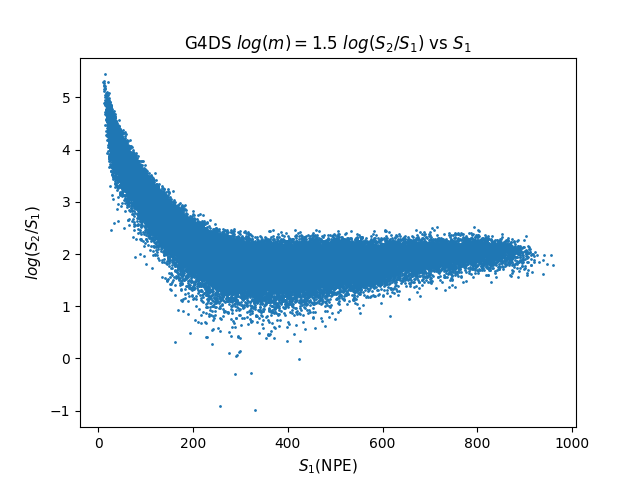
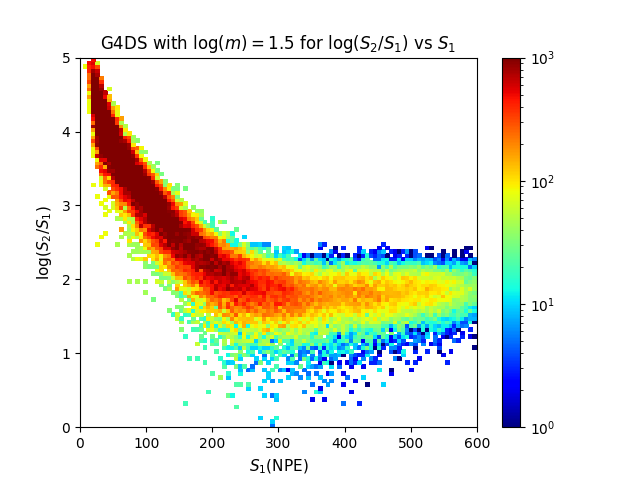
Add plots for analysis

diff --git a/Standalone/PostTrainingGan4DS.py b/Standalone/PostTrainingGan4DS.py
@@ -1,25 +1,19 @@
-from __future__ import division
-import tensorflow as tf
+#from __future__ import division
+#import tensorflow as tf
 import pickle
 import yaml
 import numpy as np
 import matplotlib.pyplot as plt
 import csv
-import numpy as np
 import matplotlib as mpl
+from collections import defaultdict
 
 def getData(energies, variables_of_interest):
-    allTrees = {}
+    allTrees = []
     for energy in energies:
-        allTrees[energy] = pickle.load(
-            open("in/pickles/outRun_"+energy+".p", "rb"))
-    result = {}
-    for key, value in allTrees.items():
-        filt_value = {k2: v2 for k2,
-                      v2 in value.items() if k2 in variables_of_interest}
-        if(filt_value):
-            result[key] = filt_value
-    return result
+        allTrees.append( pickle.load(
+            open("in/pickles/outRun_"+energy+".p", "rb")))
+    return allTrees
 
 def get_distributed_energies(path):
     with open(path, newline='') as csvfile:
@@ -108,8 +102,7 @@ def normaliseData(training_ds, energies, variables_of_interest):
 currentRun = "run_1_"
 currentSession = "session_1_"
 
-stream = open("./out/"+currentRun+"/sessions/" +
-              currentSession+"/layouts/"+"config.yaml", "r+")
+stream = open("/workspaces/mphys-project/G4_RUNS/serial_architecture/working_3D_cgan_s1_s2_f200/sessions/session_1_/layouts/config.yaml", "r+")
 data = yaml.load(stream, Loader=yaml.FullLoader)
 
 variables_of_interest = data['variables_of_interest']
@@ -177,16 +170,18 @@ for var in variables_of_interest:
 all_stuff={'data':conditions,'normalisation':allNorms}
 pickle.dump( all_stuff, open("./final_result/testing_data.p", "wb" ) )
 '''
-all_stuff = pickle.load(
-            open("./final_result/testing_data.p", "rb"))
-masses=["3"]
+masses=["1-5","2","2-5","3","4"]
 for mass in masses:
+    print("Current log-mass: %s"%(mass.replace('-','.')))
+    all_stuff = pickle.load(
+            open("./final_result/testing_data.p", "rb"))
     conditions=all_stuff['data']
     allNorms=all_stuff['normalisation']
 
     selected_energies=get_distributed_energies('sampling_distributions/Ar_c1dat_m'+mass+'.dat')
+
     #selected_energies = [str(e) for e in selected_energies]
-    mass=mass.replace('-','.')
+    massString=mass.replace('-','.')
     for num,cond in enumerate(conditions):
         conditions[num]=[conditions[num][s]*allNorms[num][s] for s in selected_energies]
 
@@ -195,80 +190,117 @@ for mass in masses:
     # This graph is f200 vs s1
     training_ds = getData([str(e) for e in selected_energies], ['s1','s2','f200like'])
 
-    x = training_ds['15']['s1']
-    plt.hist(x,bins=200,density=True)
-    plt.ylabel(r'$\rho (x)$', size=11, labelpad=5, rotation="vertical")
-    plt.xlabel("S1[NPE]", size=11, labelpad=5)
-    plt.title(f"S1")
-    plt.savefig('./final_result/s1_training.png')
-    plt.close()
-    plt.figure()
-
-    x = np.array(conditions[0][15])
-    plt.hist(x,bins=200,density=True)
-    plt.ylabel(r'$\rho (x)$', size=11, labelpad=5, rotation="vertical")
-    plt.xlabel(r"$S_1$ (NPE])", size=11, labelpad=5)
-    plt.title(f"S1")
-    plt.savefig('./final_result/s1_test.png')
-    plt.close()
-    plt.figure()
-
-    current_energies = list(training_ds.keys())
-    current_variables_of_interest = list(training_ds[current_energies[0]].keys())
     y=[]
     x=[]
-    for i in current_energies:
+    for i in range(len(selected_energies)):
         y.append(training_ds[i]['f200like'])
         x.append(training_ds[i]['s1'])
     y = np.concatenate(y)
     x = np.concatenate(x)
-    h= plt.hist2d(x, y,range= [[0, 600], [0.2, 1]],bins=[100,100],norm=mpl.colors.LogNorm(),cmap=plt.get_cmap("jet"))
-    plt.colorbar(h[3])
+    h1_training,x_edges_1,y_edges_1,im= plt.hist2d(x, y,range= [[0, 600], [0.2, 1]],bins=[100,100],norm=mpl.colors.LogNorm(vmax=1000),cmap=plt.get_cmap("jet"))
+    plt.colorbar(im)
     plt.ylabel(r"$f_{200}$", size=11, labelpad=5, rotation="vertical")
     plt.xlabel("$S_1$(NPE)", size=11, labelpad=5)
-    plt.title(rf"G4DS $log(m)=%s$ $f_{200}$ vs $S_1$"%(mass))
-    plt.savefig('./final_result/'+mass+'_g4_f200_vs_s1.png')
+    plt.title(r"G4DS with log$(m)=%s$ for $f_{200}$ vs $S_1$"%(massString))
+    plt.savefig('./final_result/'+massString+'_g4_f200_vs_s1.png')
     plt.close()
-    plt.figure()
 
+    plt.figure()
     y = np.array(conditions[-1])
     x = np.array(conditions[0])
-    h= plt.hist2d(np.concatenate(x), np.concatenate(y),range= [[0, 600], [0.2, 1]],bins=[100,100],norm=mpl.colors.LogNorm(),cmap=plt.get_cmap("jet"))
-    plt.colorbar(h[3])
+    h1_gan,x_edges_1,y_edges_1,im= plt.hist2d(np.concatenate(x), np.concatenate(y),range= [[0, 600], [0.2, 1]],bins=[100,100],norm=mpl.colors.LogNorm(vmax=1000),cmap=plt.get_cmap("jet"))
+    plt.colorbar(im)
     plt.ylabel(r"$f_{200}$", size=11, labelpad=5, rotation="vertical")
     plt.xlabel(r"$S_1$(NPE)", size=11, labelpad=5)
-    plt.title(rf"GAN $log(m)=%s$ $f_{200}$ vs $S_1$"%(mass))
-    plt.savefig('./final_result/'+mass+'_gan_f200_vs_s1.png')
+    plt.title(r"GAN with log$(m)=%s$ for $f_{200}$ vs $S_1$"%(massString))
+    plt.savefig('./final_result/'+massString+'_gan_f200_vs_s1.png')
     plt.close()
-    plt.figure()
-    # order is [s1,s2,f200]
-    # This graph is f200 vs s1
 
-    current_energies = list(training_ds.keys())
-    current_variables_of_interest = list(training_ds[current_energies[0]].keys())
+    plt.figure()
     y=[]
     x=[]
-    for i in current_energies:
+    for i in range(len(selected_energies)):
         x.append(training_ds[i]['s1'])
         y.append(np.log(np.divide(np.array(training_ds[i]['s2']),np.array(training_ds[i]['s1']))))
 
     y = np.concatenate(y)
     x = np.concatenate(x)
 
-    h=plt.scatter(x, y,s=1)
+    h2_training,x_edges,y_edges,im= plt.hist2d(x, y,range= [[0, 600], [0, 5]],bins=[100,100],norm=mpl.colors.LogNorm(vmax=1000),cmap=plt.get_cmap("jet"))
+    plt.colorbar(im)
     plt.xlabel(r"$S_1$(NPE)", size=11, labelpad=5)
-    plt.ylabel(r"$log(S_2/S_1)$", size=11, labelpad=5)
-    plt.title(rf"G4DS $log(m)=%s$ $log(S_2/S_1)$ vs $S_1$"%(mass))
-    plt.savefig('./final_result/'+mass+'_g4_s1_over_s2_vs_s1.png')
+    plt.ylabel(r"log$(S_2/S_1)$", size=11, labelpad=5)
+    plt.title(r"G4DS with log$(m)=%s$ for log$(S_2/S_1)$ vs $S_1$"%(massString))
+    plt.savefig('./final_result/'+massString+'_g4_s1_over_s2_vs_s1.png')
     plt.close()
 
     x = np.array(conditions[0])
     y = np.log(np.divide(np.array(conditions[1]),np.array(conditions[0])))
     y = np.concatenate(y)
     x = np.concatenate(x)
-    h=plt.scatter(x, y,s=1)
+
+    h2_gan,x_edges_2,y_edges_2,im = plt.hist2d(x, y,range= [[0, 600], [0, 5]],bins=[100,100],norm=mpl.colors.LogNorm(vmax=1000),cmap=plt.get_cmap("jet"))
+    plt.colorbar(im)
     plt.xlabel(r"$S_1$(NPE)", size=11, labelpad=5)
-    plt.ylabel(r"$log(S_2/S_1)$", size=11, labelpad=5)
-    plt.title(rf"GAN $log(m)=%s$ $log(S_2/S_1)$ vs $S_1$"%(mass))
-    plt.savefig('./final_result/'+mass+'_gan_s1_over_s2_vs_s1.png')
+    plt.ylabel(r"log$(S_2/S_1)$", size=11, labelpad=5)
+    plt.title(r"GAN with log$(m)=%s$ for log$(S_2/S_1)$ vs $S_1$"%(massString))
+    plt.savefig('./final_result/'+massString+'_gan_s1_over_s2_vs_s1.png')
     plt.close()
+
+    diff = (h2_gan - h2_training)
+    custom_cmap=plt.get_cmap("seismic")
+    #custom_cmap.set_bad('white')
+    #diff = np.ma.masked_equal(diff, 0)
+    h2_diff= plt.pcolormesh(x_edges_2, y_edges_2,diff.T,norm=mpl.colors.Normalize(vmin=-1000,vmax=1000),cmap=custom_cmap)
+    cbar= plt.colorbar(h2_diff)
+    #cbar.ax.set_yticklabels([r'$-10^3$',r'$-10^2$',r'$10^2$',r'$10^3$'])
+    plt.xlabel(r"Difference in $S_1$(NPE)", size=11, labelpad=5)
+    plt.ylabel(r"Difference in log$(S_2/S_1)$", size=11, labelpad=5)
+    plt.title(r"GAN4DS-G4DS with log$(m)=%s$ for log$(S_2/S_1)$ vs $S_1$"%(massString))
+    plt.savefig('./final_result/'+massString+'_difference_s1_over_s2_vs_s1.png')
+    plt.close()
+    '''
+    ratio = np.divide(h2_gan,h2_training , out=np.zeros_like(h2_gan), where=h2_training!=0)
+    #ratio = np.ma.masked_equal(ratio, 1)
+    #linthresh=0.03, linscale=0.03 ,vmin=0, vmax=1000, base=10
+    h2_ratio= plt.pcolormesh(x_edges_2, y_edges_2,ratio.T,norm=mpl.colors.LogNorm(),cmap=plt.get_cmap("jet"))
+    #ticks=[1000,2, 1, 10e-1]
+    cbar= plt.colorbar(h2_ratio)
+    #cbar.ax.set_yticklabels(['1000','2','1','10e-1'])
+    plt.xlabel(r"Ratio in $S_1$(NPE)", size=11, labelpad=5)
+    plt.ylabel(r"Ratio in log$(S_2/S_1)$", size=11, labelpad=5)
+    plt.title(rf"GAN4DS/G4 with log$(m)=%s$ for log$(S_2/S_1)$ vs $S_1$"%(massString))
+    plt.savefig('./final_result/'+massString+'_ratio_s1_over_s2_vs_s1.png')
+    plt.close()
+    '''
+    diff = (h1_gan - h1_training)
+    custom_cmap=plt.get_cmap("seismic")
+    #custom_cmap.set_bad('white')
+    #diff = np.ma.masked_equal(diff, 0)
+    h1_diff= plt.pcolormesh(x_edges_1, y_edges_1,diff.T,norm=mpl.colors.Normalize(vmin=-1000,vmax=1000),cmap=custom_cmap)
+    cbar= plt.colorbar(h1_diff)
+    #cbar.ax.set_yticklabels([r'$-10^3$',r'$-10^2$',r'$10^2$',r'$10^3$'])
+    plt.ylabel(r"Difference in $f_{200}$", size=11, labelpad=5, rotation="vertical")
+    plt.xlabel(r"Difference in $S_1$(NPE)", size=11, labelpad=5)
+    plt.title(r"GAN4DS-G4 with log$(m)=%s$ for $f_{200}$ vs $S_1$"%(massString))
+    plt.savefig('./final_result/'+massString+'_difference_f200_vs_s1.png')
+    plt.close()
+    plt.figure()
+
+    '''
+    custom_cmap=plt.get_cmap("seismic")
+    custom_cmap.set_bad('white')
+    ratio = np.divide(h1_gan,h1_training , out=np.zeros_like(h1_gan), where=h1_training!=0)
+    ratio = np.ma.masked_equal(ratio, 0)
+    #linthresh=0.03, linscale=0.03 ,vmin=0, vmax=1000, base=10
+    h1_ratio= plt.pcolormesh(x_edges_1, y_edges_1,ratio.T,norm=mpl.colors.LogNorm(),cmap=plt.get_cmap("seismic"))
+    #ticks=[1000,2, 1, 10e-1]
+    cbar= plt.colorbar(h2_ratio)
+    #cbar.ax.set_yticklabels(['1000','2','1','10e-1'])
+    plt.ylabel(r"$f_{200}$", size=11, labelpad=5, rotation="vertical")
+    plt.xlabel(r"$S_1$(NPE)", size=11, labelpad=5)
+    plt.title(rf"GAN4DS/G4 with log$(m)=%s$ for $f_{200}$ vs $S_1$"%(massString))
+    plt.savefig('./final_result/'+massString+'_ratio_f200_vs_s1.png')
+    plt.close()
+    plt.figure()
+    '''
